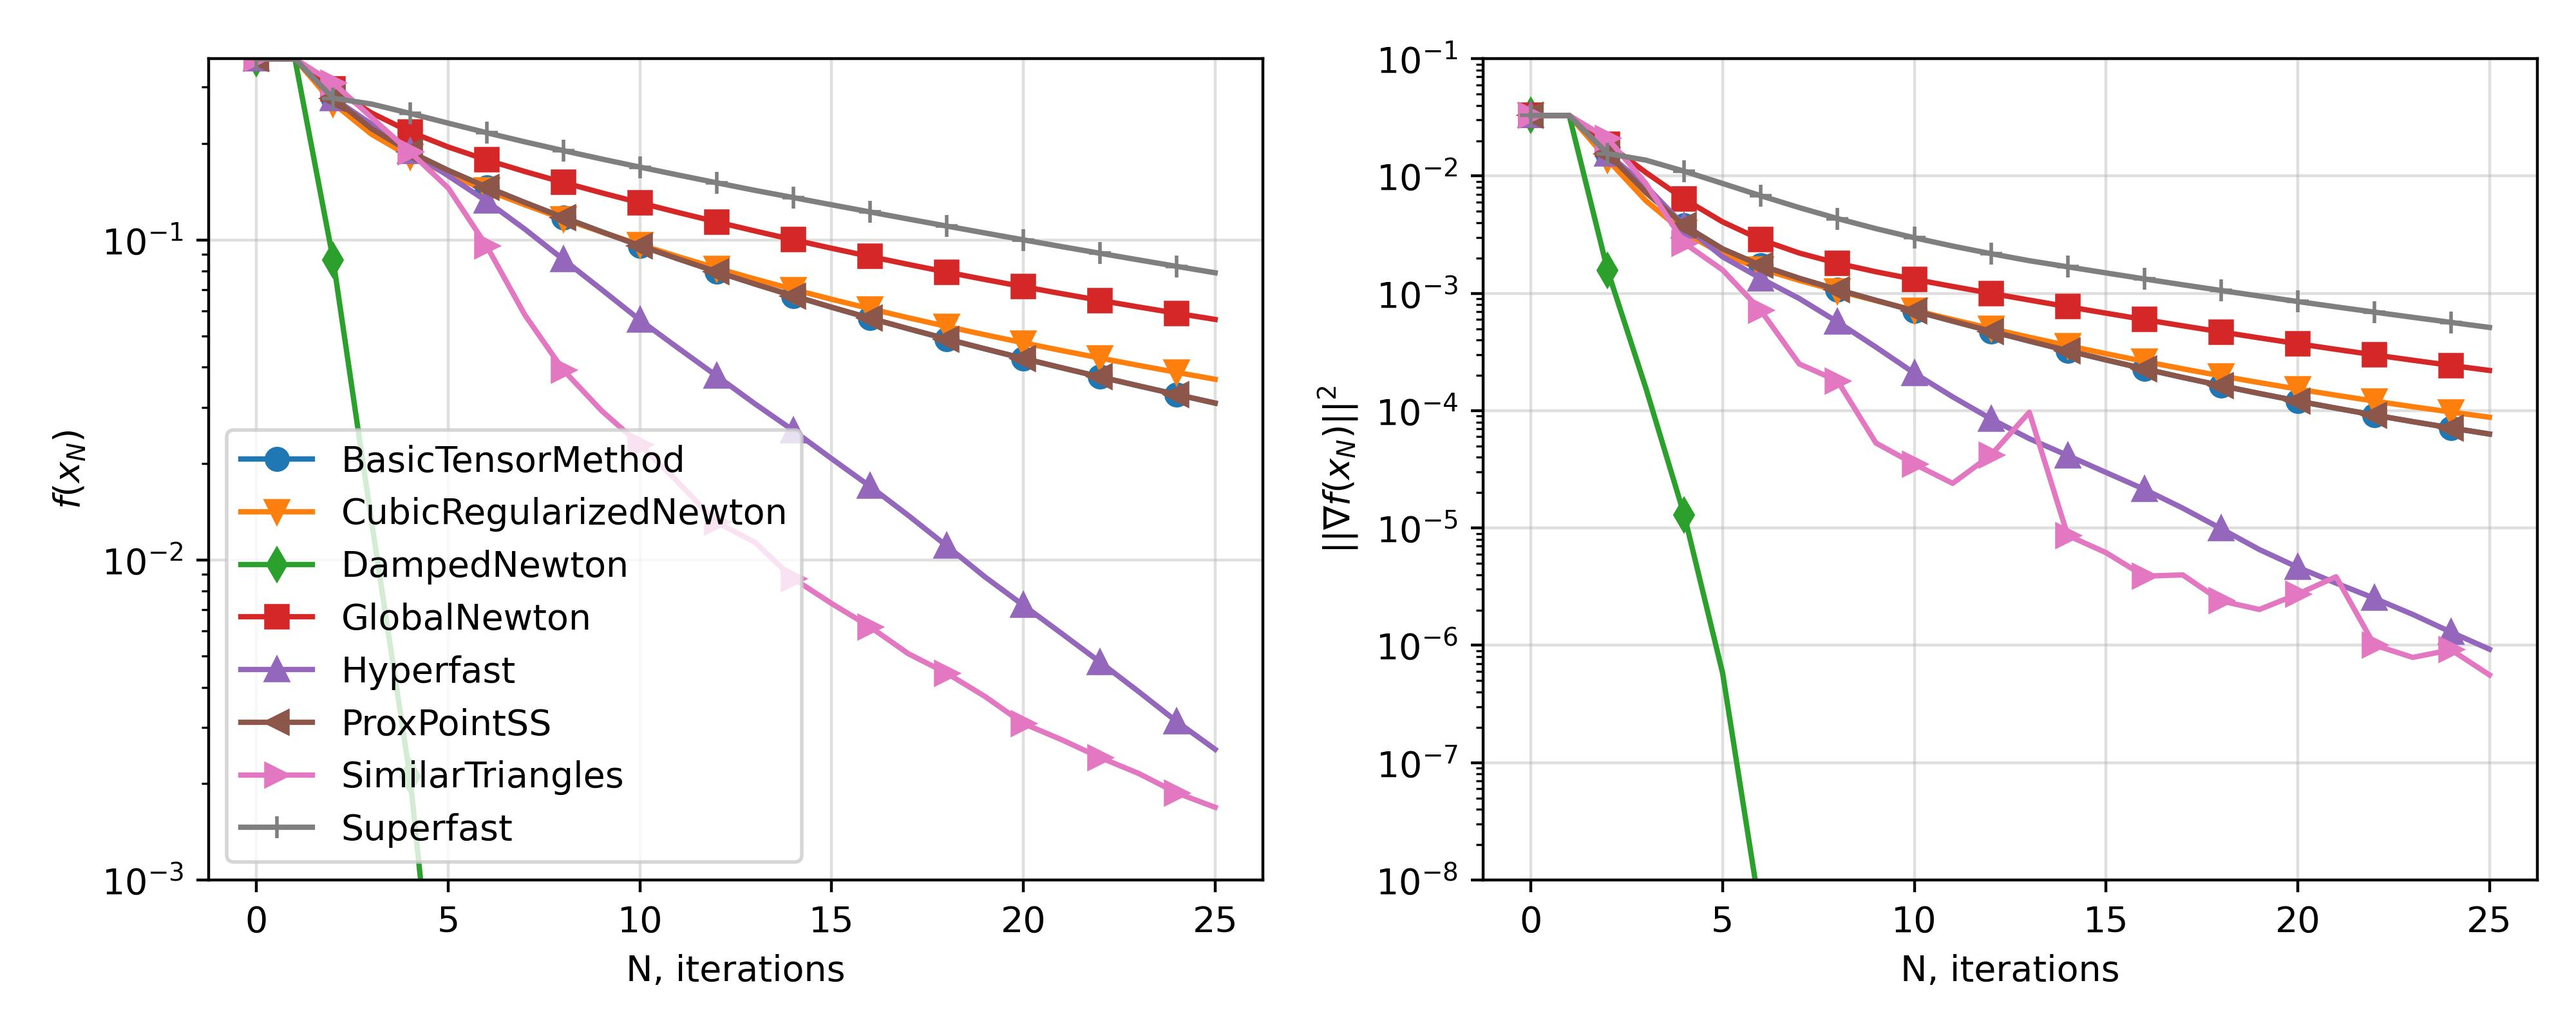
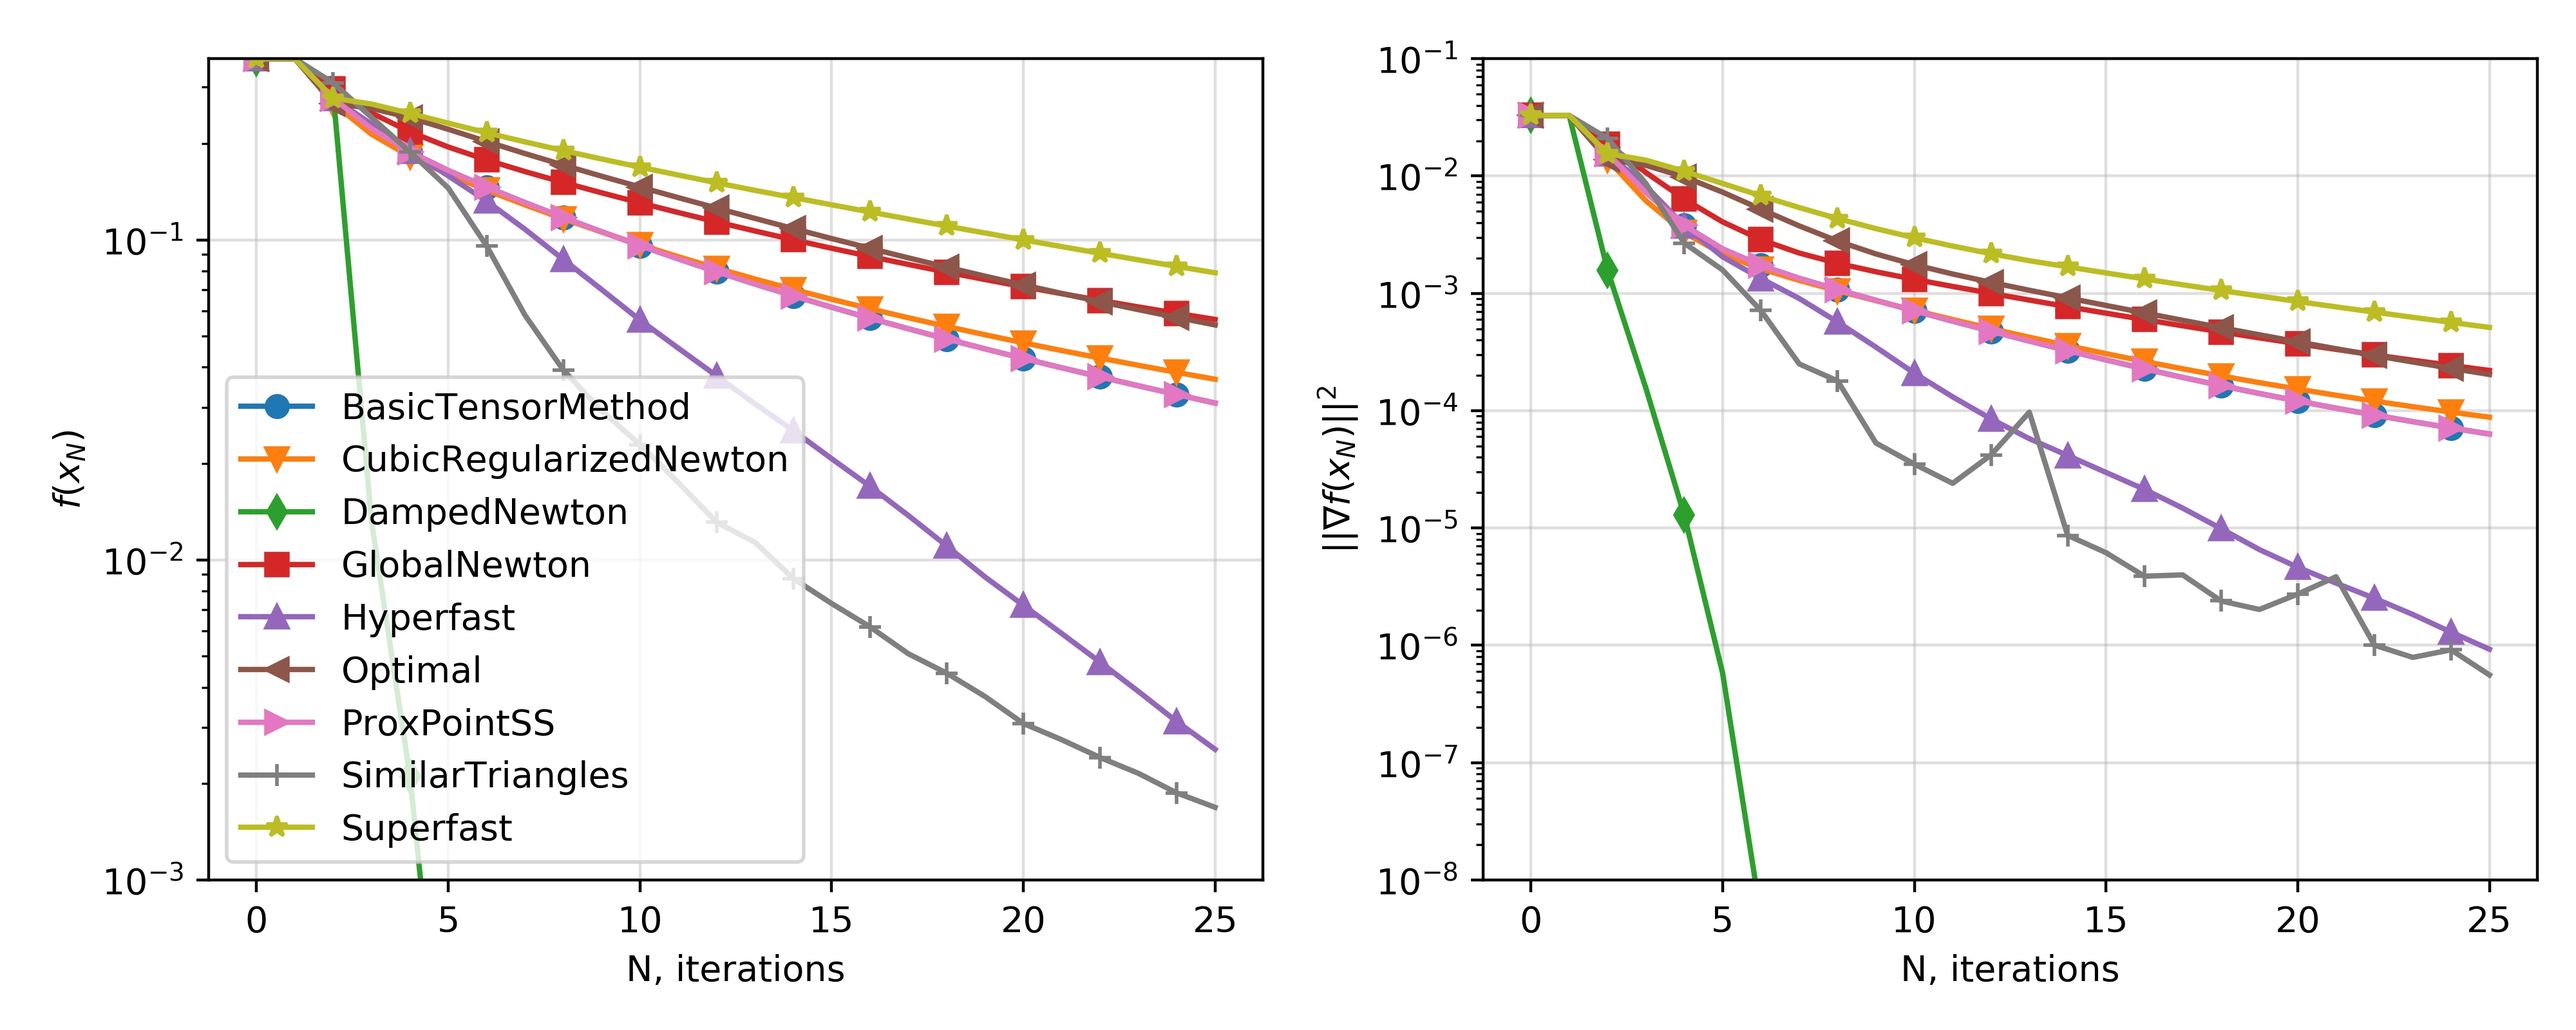
optimal done

diff --git a/OPTAMI/higher_order/optimal.py b/OPTAMI/higher_order/optimal.py
@@ -21,7 +21,7 @@ class Optimal(Optimizer):
     """
     MONOTONE = False
 
-    def __init__(self, params, eta0: float = 1e-3, L: float = 1e+3, sigma: float = 0.5, order: int = 3,
+    def __init__(self, params, eta0: float = 1e-3, L: float = 1e+3, sigma: float = 0.5, order: int = 2,
                  TensorStepMethod: Optimizer = None, tensor_step_kwargs: dict = None,
                  subsolver: Optimizer = None, subsolver_args: dict = None,
                  max_iters: int = None, verbose: bool = True):
@@ -106,9 +106,21 @@ class Optimal(Optimizer):
                 with torch.no_grad():
                     p.zero_().add_(state['xt'])
 
-            # TODO: tensor step is for A(.), not for f(.)
-            self.tensor_step_method.step(closure)
+            def regularized_closure():
+                f = closure()
+                norm = 0
+                for p in params:
+                    state = self.state[p]
+                    norm += torch.linalg.norm(p.sub(state['xg'].detach())).item()**2
+                f += 1/(2*lambd) * norm
+                return f
+
+            self.tensor_step_method.step(regularized_closure)
             self.zero_grad()
+
+            for p in params:
+                state = self.state[p]
+                state['xt+1/2'] = p.detach().clone()
 
             with torch.enable_grad():
                 closure().backward()

diff --git a/plot.py b/plot.py
@@ -7,7 +7,7 @@ import os
 
 
 f, axs = plt.subplots(1, 2, figsize=(10, 4))
-markers = ["o", "v", "d", "s", "^", "<", ">", "+"]
+markers = ["o", "v", "d", "s", "^", "<", ">", "+", "*"]
 
 DATASET = "a9a"
 F_START = 0.6931471805599453
@@ -16,6 +16,9 @@ WITH_TIME = False
 
 LOG_PATH = f"logs_{DATASET}"
 for i, file in enumerate(sorted(os.listdir(LOG_PATH))):
+    if file[0] == ".":
+        continue
+
     with open(os.path.join(LOG_PATH, file), "rb") as f:
         times, losses, grads = pickle.load(f)
 

diff --git a/OPTAMI/__init__.py b/OPTAMI/__init__.py
@@ -1,3 +1,3 @@
 from .first_order import SimilarTriangles
-from .higher_order import Superfast, Hyperfast, BasicTensorMethod
+from .higher_order import Superfast, Hyperfast, BasicTensorMethod, Optimal
 from .second_order import CubicRegularizedNewton, DampedNewton, GlobalNewton, ProxPointSS

diff --git a/OPTAMI/higher_order/__init__.py b/OPTAMI/higher_order/__init__.py
@@ -1,3 +1,4 @@
 from .superfast import Superfast
 from .hyperfast import Hyperfast
+from .optimal import Optimal
 from .basic_tensor_method import BasicTensorMethod
